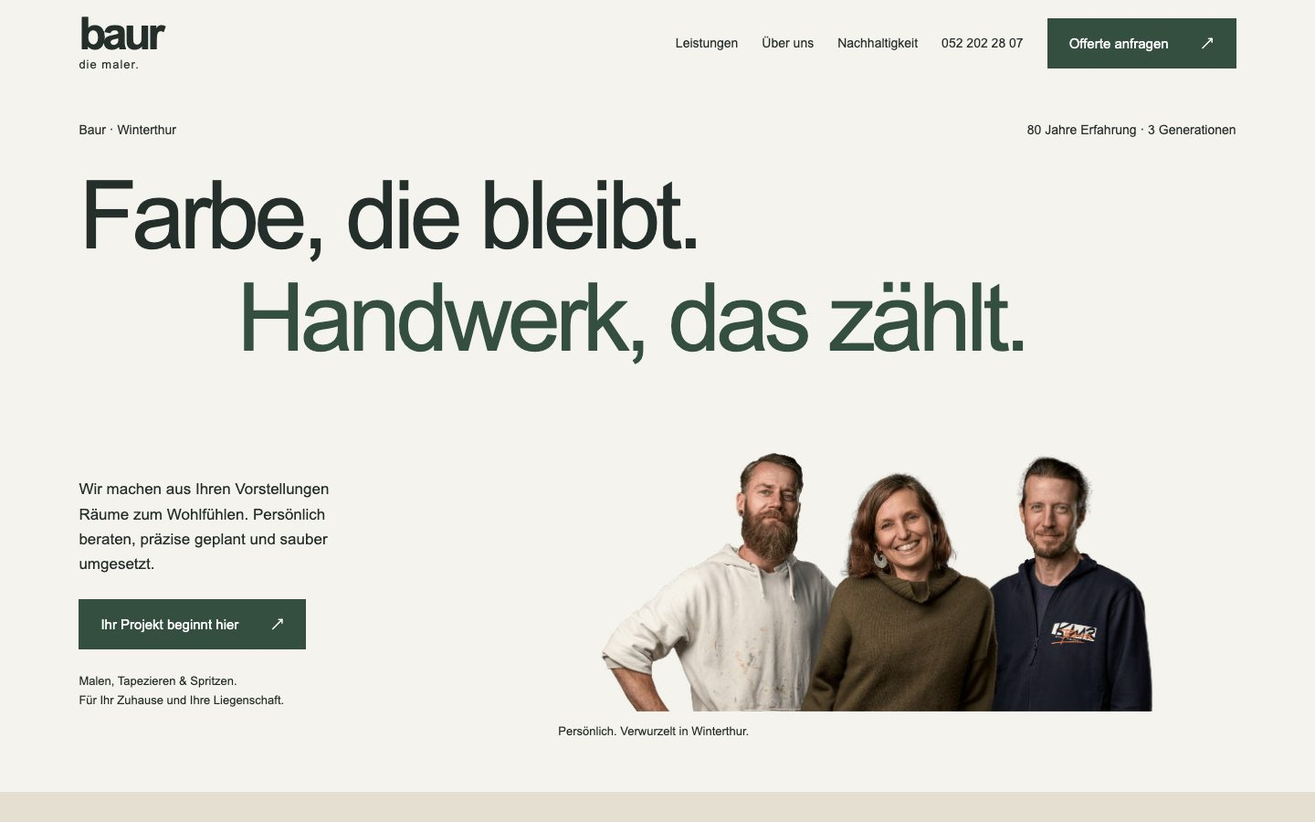
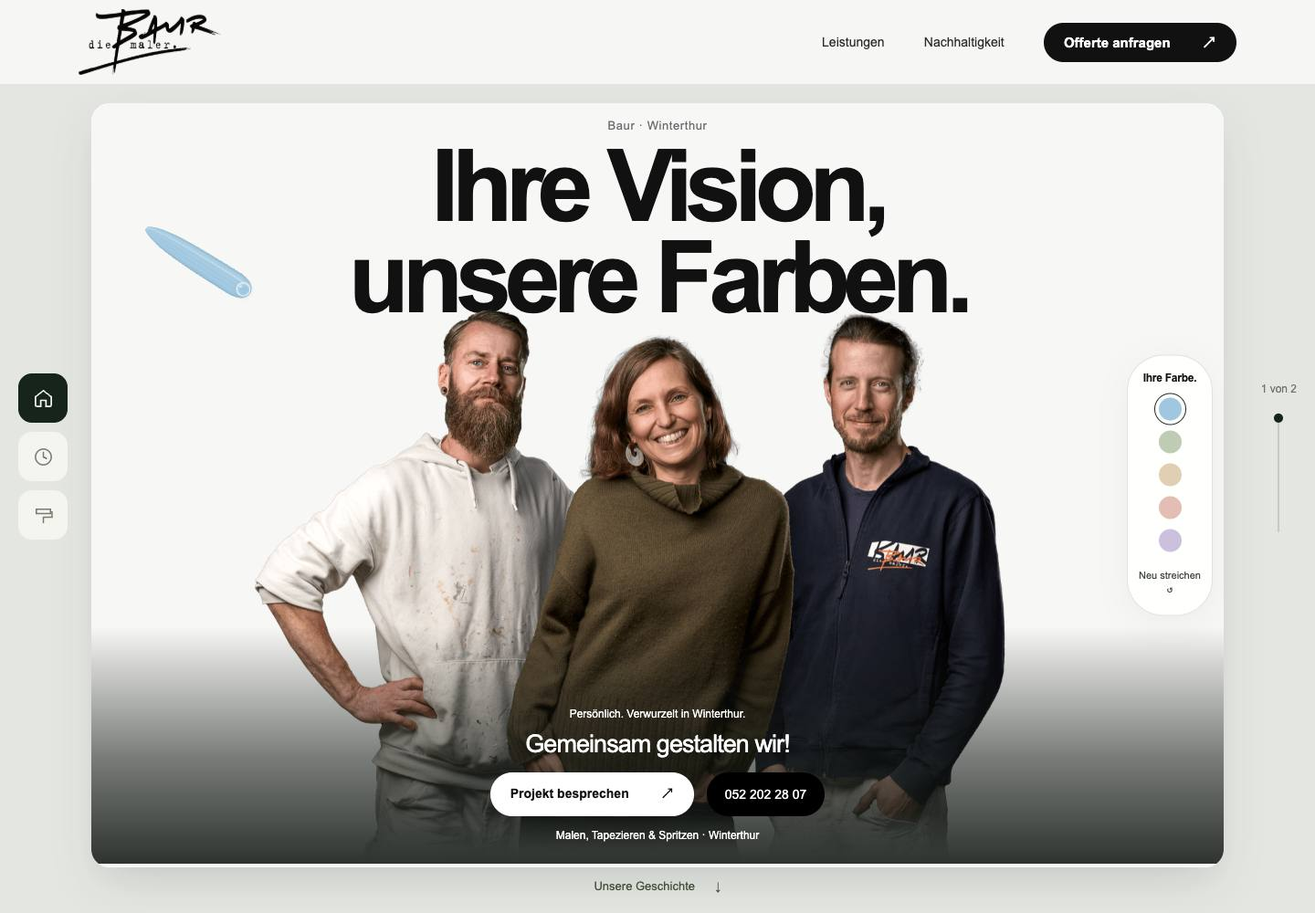
Add scroll-driven stacked hero and history cards based on supplied video

diff --git a/index.html b/index.html
@@ -1,4 +1,4 @@
-<!doctype html><html lang="de-CH"><head><meta charset="utf-8"><meta name="viewport" content="width=device-width,initial-scale=1"><title>Maler Winterthur | 3 Generationen Handwerk – Baur</title><meta name="description" content="Malen, Tapezieren und Spritzen in Winterthur. Über 80 Jahre Erfahrung, persönliche Beratung und eigene Umwelttechnik. Jetzt unverbindlich anfragen."><meta name="theme-color" content="#f5f5f3"><link rel="canonical" href="https://www.baur-maler.ch/"><meta property="og:title" content="Maler Winterthur | 3 Generationen Handwerk – Baur"><meta property="og:description" content="Malen, Tapezieren und Spritzen in Winterthur. Über 80 Jahre Erfahrung, persönliche Beratung und eigene Umwelttechnik. Jetzt unverbindlich anfragen."><meta property="og:type" content="website"><meta property="og:locale" content="de_CH"><meta property="og:url" content="https://www.baur-maler.ch/"><meta property="og:image" content="https://www.baur-maler.ch/assets/team.jpg"><link rel="icon" href="/assets/favicon.svg" type="image/svg+xml"><link rel="stylesheet" href="/style.css"><script type="application/ld+json">{"@context": "https://schema.org", "@type": ["LocalBusiness", "PaintingContractor"], "name": "Baur die Maler GmbH", "url": "https://www.baur-maler.ch", "telephone": "+41522022807", "email": "info@baur-maler.ch", "address": {"@type": "PostalAddress", "streetAddress": "Agnesstrasse 36", "postalCode": "8406", "addressLocality": "Winterthur", "addressCountry": "CH"}, "openingHours": ["Mo-Fr 07:00-11:45", "Mo-Fr 13:00-17:30"]}</script><script src="/app.js" defer></script><script src="/hero-paint.js" defer></script><script src="/heritage.js" defer></script><noscript><style>.heritage-portraits{opacity:1;transform:none}.heritage-progress span{transform:scaleX(1)}.heritage-controls{display:none}</style></noscript></head><body><a class="skip" href="#main">Zum Inhalt</a><header><a class="wordmark" href="/" aria-label="Baur, Startseite"><img src="/assets/baur-logo-schwarz.png" alt="Baur – die Maler" width="1167" height="537"></a><button class="menu-toggle" aria-expanded="false" aria-controls="navigation">Menü</button><nav id="navigation" aria-label="Hauptnavigation"><a href="/leistungen/">Leistungen</a><a href="/nachhaltigkeit/">Nachhaltigkeit</a><a class="button" href="/kontakt/">Offerte anfragen <span aria-hidden="true">↗</span></a></nav></header><main id="main"><section class="hero paint-hero"><canvas class="hero-paint-canvas" aria-hidden="true"></canvas><div class="paint-dot" aria-hidden="true"></div><aside class="paint-tools" aria-label="Malfarbe auswählen"><span class="paint-tools-title">Ihre Farbe.</span><div class="paint-colours" role="group" aria-label="Farben"><button type="button" class="paint-colour is-selected" data-paint-colour="#9fc7df" style="--colour:#9fc7df" aria-label="Himmelblau" aria-pressed="true"></button><button type="button" class="paint-colour" data-paint-colour="#bdccb3" style="--colour:#bdccb3" aria-label="Salbei" aria-pressed="false"></button><button type="button" class="paint-colour" data-paint-colour="#e1cfb3" style="--colour:#e1cfb3" aria-label="Sand" aria-pressed="false"></button><button type="button" class="paint-colour" data-paint-colour="#e4bdb5" style="--colour:#e4bdb5" aria-label="Rosé" aria-pressed="false"></button><button type="button" class="paint-colour" data-paint-colour="#ccc0df" style="--colour:#ccc0df" aria-label="Flieder" aria-pressed="false"></button></div><button type="button" class="paint-reset">Neu streichen ↺</button><p class="paint-hint">Farbe bewegen.<br>Spuren hinterlassen.</p><span class="paint-status" role="status" aria-live="polite"></span></aside><div class="hero-intro"><p>Baur · Winterthur</p></div><div class="hero-layout hero-stage"><h1>Ihre Vision,<br><span>unsere Farben.</span></h1><figure class="hero-team"><img src="/assets/original/start-01.png" alt="Das Baur-Team in Winterthur" width="1500" height="1234" fetchpriority="high"></figure><div class="hero-photo-shade" aria-hidden="true"></div><div class="hero-overlay"><p class="hero-photo-caption">Persönlich. Verwurzelt in Winterthur.</p><p class="hero-overlay-title">Gemeinsam gestalten wir!</p><div class="hero-actions"><a class="button" href="/kontakt/">Projekt besprechen <span aria-hidden="true">↗</span></a><a class="hero-phone" href="tel:+41522022807">052 202 28 07</a></div><p class="hero-overlay-note">Malen, Tapezieren &amp; Spritzen · Winterthur</p></div></div></section><section class="experience" aria-labelledby="experience-title"><div class="experience-top"><p>Weil unsere Kunden Qualität schätzen.</p><h2 id="experience-title">Von Hand zu Hand.</h2><p class="experience-intro">Wissen, das weiterlebt.<br>Handwerk, das bleibt.</p></div><div class="experience-stats"><div class="experience-stat"><span class="experience-number" aria-label="Über 80 Jahre Erfahrung"><span data-experience-count="80" aria-hidden="true">80</span><span class="experience-plus" aria-hidden="true">+</span></span><h3>Jahre Erfahrung.</h3><p>Seit 1937 in Winterthur verwurzelt.</p></div><div class="experience-stat"><span class="experience-number" aria-label="Drei Generationen"><span data-experience-count="3" aria-hidden="true">3</span><span class="experience-dot" aria-hidden="true"></span></span><h3>Generationen.</h3><p>Eine Familie. Ein gemeinsamer Anspruch.</p></div></div><div class="heritage"><div class="heritage-heading"><p>Die ganze Geschichte. Von 1937 bis heute.</p><div class="heritage-controls"><button type="button" class="heritage-prev" aria-label="Frühere Stationen" disabled>←</button><button type="button" class="heritage-next" aria-label="Spätere Stationen">→</button></div></div><div class="heritage-rail" tabindex="0" role="region" aria-label="Firmengeschichte von 1937 bis 2016, horizontal blättern"><div class="heritage-track"><div class="heritage-progress" aria-hidden="true"><span></span></div><article class="heritage-event" aria-labelledby="year-1937"><div class="heritage-portraits"><figure><img src="/assets/original/geschichte-01.jpg" alt="Ernst Baur sen." width="200" height="240" loading="lazy"><figcaption>Ernst Baur sen.</figcaption></figure></div><span class="heritage-point" aria-hidden="true"></span><h3 id="year-1937" class="heritage-year">1937</h3><h4>Der Anfang.</h4><p>Gründet Ernst Baur sen. den Malerbetrieb in Winterthur. Der eidg. dipl. Malermeister stellt kontinuierlich mehr Mitarbeiter ein und setzt auf ein starkes, gut ausgebildetes Team. Sein Erfolg bestätigt seinen Weg.</p></article><article class="heritage-event" aria-labelledby="year-1946"><div class="heritage-portraits"></div><span class="heritage-point" aria-hidden="true"></span><h3 id="year-1946" class="heritage-year">1946</h3><h4>Ein Zuhause fürs Handwerk.</h4><p>Die Familie Baur erweitert ihren Betrieb und übernimmt die Liegenschaft an der Agnesstrasse 36 in Winterthur. Um dem wachsenden Platzbedarf gerecht zu werden, errichten sie dort eine neue, moderne Werkstatt.</p></article><article class="heritage-event" aria-labelledby="year-1973"><div class="heritage-portraits"><figure><img src="/assets/original/geschichte-02.jpg" alt="Ernst Baur jun." width="200" height="240" loading="lazy"><figcaption>Ernst Baur jun.</figcaption></figure></div><span class="heritage-point" aria-hidden="true"></span><h3 id="year-1973" class="heritage-year">1973</h3><h4>Die nächste Generation.</h4><p>Die nächste Generation. Nach intensiven Lehrjahren tritt Ernst Baur jun. 1972 in den Familienbetrieb ein und schließt 1973 erfolgreich die Prüfung zum eidg. dipl. Malermeister ab.</p></article><article class="heritage-event" aria-labelledby="year-1976"><div class="heritage-portraits"><figure><img src="/assets/original/geschichte-03.jpg" alt="Therese Baur" width="200" height="240" loading="lazy"><figcaption>Therese Baur</figcaption></figure></div><span class="heritage-point" aria-hidden="true"></span><h3 id="year-1976" class="heritage-year">1976</h3><h4>Gemeinsam weiterführen.</h4><p>Generationenwechsel. Ernst Baur jun. übernimmt gemeinsam mit seiner Frau Therese den Betrieb. Getreu der Tradition legt er großen Wert auf die Weiterbildung der Mitarbeiter. Zudem engagiert er sich regelmäßig im Malermeisterverband als Prüfungsexperte für Lehrlinge und als Prüfungs-Obmann.</p></article><article class="heritage-event" aria-labelledby="year-1986"><div class="heritage-portraits"></div><span class="heritage-point" aria-hidden="true"></span><h3 id="year-1986" class="heritage-year">1986</h3><h4>Der Zeit voraus.</h4><p>Die Nase vorn. Die neue Werkstatt, das eigene Spritzwerk und eine Wärmerückgewinnungsanlage werden in Betrieb genommen. Baur die Maler erfüllt nicht nur alle ökologischen Auflagen, sondern setzt als erster Malerbetrieb in Winterthur mit neuen Spalt- und Destillieranlagen ein freiwilliges Zeichen für aktiven Umweltschutz.</p></article><article class="heritage-event" aria-labelledby="year-1997"><div class="heritage-portraits"><figure><img src="/assets/original/geschichte-04.jpg" alt="Mathias Baur" width="200" height="240" loading="lazy"><figcaption>Mathias Baur</figcaption></figure></div><span class="heritage-point" aria-hidden="true"></span><h3 id="year-1997" class="heritage-year">1997</h3><h4>Die Familientradition lebt.</h4><p>Nachwuchsfragen stellen sich nicht. Andi (1997) und Mathias (1999) Baur beginnen ihre Malerlehren und führen die Familientradition fort.</p></article><article class="heritage-event" aria-labelledby="year-2004"><div class="heritage-portraits"></div><span class="heritage-point" aria-hidden="true"></span><h3 id="year-2004" class="heritage-year">2004</h3><h4>Der erste Streich.</h4><p>Der erste Streich. Mathias Baur tritt in den Betrieb ein und unterstützt das Team als Spezialist für Spritzarbeiten und dekorative Techniken.</p></article><article class="heritage-event" aria-labelledby="year-2007"><div class="heritage-portraits"><figure><img src="/assets/original/geschichte-05.jpg" alt="Andi Baur" width="200" height="240" loading="lazy"><figcaption>Andi Baur</figcaption></figure></div><span class="heritage-point" aria-hidden="true"></span><h3 id="year-2007" class="heritage-year">2007</h3><h4>Ein Meister mehr.</h4><p>Andi Baur verstärkt das Team von Baur die Maler nach erfolgreichem Abschluss seiner Meisterprüfung.</p></article><article class="heritage-event" aria-labelledby="year-2012"><div class="heritage-portraits"><figure><img src="/assets/original/geschichte-04.jpg" alt="Mathias Baur" width="200" height="240" loading="lazy"><figcaption>Mathias Baur</figcaption></figure></div><span class="heritage-point" aria-hidden="true"></span><h3 id="year-2012" class="heritage-year">2012</h3><h4>Der dritte im Bunde.</h4><p>Im Sommer schließt auch Mathias Baur die Meisterschule ab und wird damit der dritte im Bunde. Beide Söhne unterstützen zunehmend ihren Vater in der Geschäftsleitung von Baur die Maler.</p></article><article class="heritage-event" aria-labelledby="year-2014"><div class="heritage-portraits"><figure><img src="/assets/original/geschichte-06.jpg" alt="Britta Baur" width="200" height="240" loading="lazy"><figcaption>Britta Baur</figcaption></figure></div><span class="heritage-point" aria-hidden="true"></span><h3 id="year-2014" class="heritage-year">2014</h3><h4>Verantwortung übernehmen.</h4><p>2014 markiert einen Wendepunkt: Mathias und Britta Baur übernehmen die Geschäftsführung. Ernst und Therese Baur treten etwas in den Hintergrund, stehen jedoch weiterhin stets mit Rat und Tat zur Seite.</p></article><article class="heritage-event" aria-labelledby="year-2016"><div class="heritage-portraits"></div><span class="heritage-point" aria-hidden="true"></span><h3 id="year-2016" class="heritage-year">2016</h3><h4>Ein neues Kapitel.</h4><p>Eine wesentliche Veränderung. Im 80. Jahr seit der Gründung übernehmen Mathias und Britta Baur das Geschäft vollständig und wandeln es am 1. Juli 2016 in die Baur die Maler GmbH um.</p></article></div></div><p class="heritage-hint">1937 <span>Mit den Pfeilen blättern oder seitlich wischen</span> 2016</p></div></section>
+<!doctype html><html lang="de-CH"><head><meta charset="utf-8"><meta name="viewport" content="width=device-width,initial-scale=1"><title>Maler Winterthur | 3 Generationen Handwerk – Baur</title><meta name="description" content="Malen, Tapezieren und Spritzen in Winterthur. Über 80 Jahre Erfahrung, persönliche Beratung und eigene Umwelttechnik. Jetzt unverbindlich anfragen."><meta name="theme-color" content="#f5f5f3"><link rel="canonical" href="https://www.baur-maler.ch/"><meta property="og:title" content="Maler Winterthur | 3 Generationen Handwerk – Baur"><meta property="og:description" content="Malen, Tapezieren und Spritzen in Winterthur. Über 80 Jahre Erfahrung, persönliche Beratung und eigene Umwelttechnik. Jetzt unverbindlich anfragen."><meta property="og:type" content="website"><meta property="og:locale" content="de_CH"><meta property="og:url" content="https://www.baur-maler.ch/"><meta property="og:image" content="https://www.baur-maler.ch/assets/team.jpg"><link rel="icon" href="/assets/favicon.svg" type="image/svg+xml"><link rel="stylesheet" href="/style.css"><script type="application/ld+json">{"@context": "https://schema.org", "@type": ["LocalBusiness", "PaintingContractor"], "name": "Baur die Maler GmbH", "url": "https://www.baur-maler.ch", "telephone": "+41522022807", "email": "info@baur-maler.ch", "address": {"@type": "PostalAddress", "streetAddress": "Agnesstrasse 36", "postalCode": "8406", "addressLocality": "Winterthur", "addressCountry": "CH"}, "openingHours": ["Mo-Fr 07:00-11:45", "Mo-Fr 13:00-17:30"]}</script><script src="/app.js" defer></script><script src="/hero-paint.js" defer></script><script src="/heritage.js" defer></script><script src="/chapters.js" defer></script><noscript><style>.heritage-portraits{opacity:1;transform:none}.heritage-progress span{transform:scaleX(1)}.heritage-controls{display:none}</style></noscript></head><body><a class="skip" href="#main">Zum Inhalt</a><header><a class="wordmark" href="/" aria-label="Baur, Startseite"><img src="/assets/baur-logo-schwarz.png" alt="Baur – die Maler" width="1167" height="537"></a><button class="menu-toggle" aria-expanded="false" aria-controls="navigation">Menü</button><nav id="navigation" aria-label="Hauptnavigation"><a href="/leistungen/">Leistungen</a><a href="/nachhaltigkeit/">Nachhaltigkeit</a><a class="button" href="/kontakt/">Offerte anfragen <span aria-hidden="true">↗</span></a></nav></header><main id="main"><div class="chapter-deck" id="ansichten"><div class="chapter-stage"><div class="chapter-card chapter-hero" data-chapter="0" aria-label="Erste Ansicht: Ihre Vision, unsere Farben"><section class="hero paint-hero"><canvas class="hero-paint-canvas" aria-hidden="true"></canvas><div class="paint-dot" aria-hidden="true"></div><aside class="paint-tools" aria-label="Malfarbe auswählen"><span class="paint-tools-title">Ihre Farbe.</span><div class="paint-colours" role="group" aria-label="Farben"><button type="button" class="paint-colour is-selected" data-paint-colour="#9fc7df" style="--colour:#9fc7df" aria-label="Himmelblau" aria-pressed="true"></button><button type="button" class="paint-colour" data-paint-colour="#bdccb3" style="--colour:#bdccb3" aria-label="Salbei" aria-pressed="false"></button><button type="button" class="paint-colour" data-paint-colour="#e1cfb3" style="--colour:#e1cfb3" aria-label="Sand" aria-pressed="false"></button><button type="button" class="paint-colour" data-paint-colour="#e4bdb5" style="--colour:#e4bdb5" aria-label="Rosé" aria-pressed="false"></button><button type="button" class="paint-colour" data-paint-colour="#ccc0df" style="--colour:#ccc0df" aria-label="Flieder" aria-pressed="false"></button></div><button type="button" class="paint-reset">Neu streichen ↺</button><p class="paint-hint">Farbe bewegen.<br>Spuren hinterlassen.</p><span class="paint-status" role="status" aria-live="polite"></span></aside><div class="hero-intro"><p>Baur · Winterthur</p></div><div class="hero-layout hero-stage"><h1>Ihre Vision,<br><span>unsere Farben.</span></h1><figure class="hero-team"><img src="/assets/original/start-01.png" alt="Das Baur-Team in Winterthur" width="1500" height="1234" fetchpriority="high"></figure><div class="hero-photo-shade" aria-hidden="true"></div><div class="hero-overlay"><p class="hero-photo-caption">Persönlich. Verwurzelt in Winterthur.</p><p class="hero-overlay-title">Gemeinsam gestalten wir!</p><div class="hero-actions"><a class="button" href="/kontakt/">Projekt besprechen <span aria-hidden="true">↗</span></a><a class="hero-phone" href="tel:+41522022807">052 202 28 07</a></div><p class="hero-overlay-note">Malen, Tapezieren &amp; Spritzen · Winterthur</p></div></div></section></div><div class="chapter-card chapter-history" data-chapter="1" aria-label="Zweite Ansicht: Geschichte und Timeline"><section class="experience" aria-labelledby="experience-title"><div class="experience-top"><p>Weil unsere Kunden Qualität schätzen.</p><h2 id="experience-title">Von Hand zu Hand.</h2><p class="experience-intro">Wissen, das weiterlebt.<br>Handwerk, das bleibt.</p></div><div class="experience-stats"><div class="experience-stat"><span class="experience-number" aria-label="Über 80 Jahre Erfahrung"><span data-experience-count="80" aria-hidden="true">80</span><span class="experience-plus" aria-hidden="true">+</span></span><h3>Jahre Erfahrung.</h3><p>Seit 1937 in Winterthur verwurzelt.</p></div><div class="experience-stat"><span class="experience-number" aria-label="Drei Generationen"><span data-experience-count="3" aria-hidden="true">3</span><span class="experience-dot" aria-hidden="true"></span></span><h3>Generationen.</h3><p>Eine Familie. Ein gemeinsamer Anspruch.</p></div></div><div class="heritage"><div class="heritage-heading"><p>Die ganze Geschichte. Von 1937 bis heute.</p><div class="heritage-controls"><button type="button" class="heritage-prev" aria-label="Frühere Stationen" disabled>←</button><button type="button" class="heritage-next" aria-label="Spätere Stationen">→</button></div></div><div class="heritage-rail" tabindex="0" role="region" aria-label="Firmengeschichte von 1937 bis 2016, horizontal blättern"><div class="heritage-track"><div class="heritage-progress" aria-hidden="true"><span></span></div><article class="heritage-event" aria-labelledby="year-1937"><div class="heritage-portraits"><figure><img src="/assets/original/geschichte-01.jpg" alt="Ernst Baur sen." width="200" height="240" loading="lazy"><figcaption>Ernst Baur sen.</figcaption></figure></div><span class="heritage-point" aria-hidden="true"></span><h3 id="year-1937" class="heritage-year">1937</h3><h4>Der Anfang.</h4><p>Gründet Ernst Baur sen. den Malerbetrieb in Winterthur. Der eidg. dipl. Malermeister stellt kontinuierlich mehr Mitarbeiter ein und setzt auf ein starkes, gut ausgebildetes Team. Sein Erfolg bestätigt seinen Weg.</p></article><article class="heritage-event" aria-labelledby="year-1946"><div class="heritage-portraits"></div><span class="heritage-point" aria-hidden="true"></span><h3 id="year-1946" class="heritage-year">1946</h3><h4>Ein Zuhause fürs Handwerk.</h4><p>Die Familie Baur erweitert ihren Betrieb und übernimmt die Liegenschaft an der Agnesstrasse 36 in Winterthur. Um dem wachsenden Platzbedarf gerecht zu werden, errichten sie dort eine neue, moderne Werkstatt.</p></article><article class="heritage-event" aria-labelledby="year-1973"><div class="heritage-portraits"><figure><img src="/assets/original/geschichte-02.jpg" alt="Ernst Baur jun." width="200" height="240" loading="lazy"><figcaption>Ernst Baur jun.</figcaption></figure></div><span class="heritage-point" aria-hidden="true"></span><h3 id="year-1973" class="heritage-year">1973</h3><h4>Die nächste Generation.</h4><p>Die nächste Generation. Nach intensiven Lehrjahren tritt Ernst Baur jun. 1972 in den Familienbetrieb ein und schließt 1973 erfolgreich die Prüfung zum eidg. dipl. Malermeister ab.</p></article><article class="heritage-event" aria-labelledby="year-1976"><div class="heritage-portraits"><figure><img src="/assets/original/geschichte-03.jpg" alt="Therese Baur" width="200" height="240" loading="lazy"><figcaption>Therese Baur</figcaption></figure></div><span class="heritage-point" aria-hidden="true"></span><h3 id="year-1976" class="heritage-year">1976</h3><h4>Gemeinsam weiterführen.</h4><p>Generationenwechsel. Ernst Baur jun. übernimmt gemeinsam mit seiner Frau Therese den Betrieb. Getreu der Tradition legt er großen Wert auf die Weiterbildung der Mitarbeiter. Zudem engagiert er sich regelmäßig im Malermeisterverband als Prüfungsexperte für Lehrlinge und als Prüfungs-Obmann.</p></article><article class="heritage-event" aria-labelledby="year-1986"><div class="heritage-portraits"></div><span class="heritage-point" aria-hidden="true"></span><h3 id="year-1986" class="heritage-year">1986</h3><h4>Der Zeit voraus.</h4><p>Die Nase vorn. Die neue Werkstatt, das eigene Spritzwerk und eine Wärmerückgewinnungsanlage werden in Betrieb genommen. Baur die Maler erfüllt nicht nur alle ökologischen Auflagen, sondern setzt als erster Malerbetrieb in Winterthur mit neuen Spalt- und Destillieranlagen ein freiwilliges Zeichen für aktiven Umweltschutz.</p></article><article class="heritage-event" aria-labelledby="year-1997"><div class="heritage-portraits"><figure><img src="/assets/original/geschichte-04.jpg" alt="Mathias Baur" width="200" height="240" loading="lazy"><figcaption>Mathias Baur</figcaption></figure></div><span class="heritage-point" aria-hidden="true"></span><h3 id="year-1997" class="heritage-year">1997</h3><h4>Die Familientradition lebt.</h4><p>Nachwuchsfragen stellen sich nicht. Andi (1997) und Mathias (1999) Baur beginnen ihre Malerlehren und führen die Familientradition fort.</p></article><article class="heritage-event" aria-labelledby="year-2004"><div class="heritage-portraits"></div><span class="heritage-point" aria-hidden="true"></span><h3 id="year-2004" class="heritage-year">2004</h3><h4>Der erste Streich.</h4><p>Der erste Streich. Mathias Baur tritt in den Betrieb ein und unterstützt das Team als Spezialist für Spritzarbeiten und dekorative Techniken.</p></article><article class="heritage-event" aria-labelledby="year-2007"><div class="heritage-portraits"><figure><img src="/assets/original/geschichte-05.jpg" alt="Andi Baur" width="200" height="240" loading="lazy"><figcaption>Andi Baur</figcaption></figure></div><span class="heritage-point" aria-hidden="true"></span><h3 id="year-2007" class="heritage-year">2007</h3><h4>Ein Meister mehr.</h4><p>Andi Baur verstärkt das Team von Baur die Maler nach erfolgreichem Abschluss seiner Meisterprüfung.</p></article><article class="heritage-event" aria-labelledby="year-2012"><div class="heritage-portraits"><figure><img src="/assets/original/geschichte-04.jpg" alt="Mathias Baur" width="200" height="240" loading="lazy"><figcaption>Mathias Baur</figcaption></figure></div><span class="heritage-point" aria-hidden="true"></span><h3 id="year-2012" class="heritage-year">2012</h3><h4>Der dritte im Bunde.</h4><p>Im Sommer schließt auch Mathias Baur die Meisterschule ab und wird damit der dritte im Bunde. Beide Söhne unterstützen zunehmend ihren Vater in der Geschäftsleitung von Baur die Maler.</p></article><article class="heritage-event" aria-labelledby="year-2014"><div class="heritage-portraits"><figure><img src="/assets/original/geschichte-06.jpg" alt="Britta Baur" width="200" height="240" loading="lazy"><figcaption>Britta Baur</figcaption></figure></div><span class="heritage-point" aria-hidden="true"></span><h3 id="year-2014" class="heritage-year">2014</h3><h4>Verantwortung übernehmen.</h4><p>2014 markiert einen Wendepunkt: Mathias und Britta Baur übernehmen die Geschäftsführung. Ernst und Therese Baur treten etwas in den Hintergrund, stehen jedoch weiterhin stets mit Rat und Tat zur Seite.</p></article><article class="heritage-event" aria-labelledby="year-2016"><div class="heritage-portraits"></div><span class="heritage-point" aria-hidden="true"></span><h3 id="year-2016" class="heritage-year">2016</h3><h4>Ein neues Kapitel.</h4><p>Eine wesentliche Veränderung. Im 80. Jahr seit der Gründung übernehmen Mathias und Britta Baur das Geschäft vollständig und wandeln es am 1. Juli 2016 in die Baur die Maler GmbH um.</p></article></div></div><p class="heritage-hint">1937 <span>Mit den Pfeilen blättern oder seitlich wischen</span> 2016</p></div></section></div><button type="button" class="chapter-next">Unsere Geschichte <span aria-hidden="true">↓</span></button></div></div><nav class="chapter-nav" aria-label="Ansichten der Startseite"><button type="button" data-chapter-go="0" aria-label="Start" aria-pressed="true"><svg viewBox="0 0 24 24" aria-hidden="true" fill="none" stroke="currentColor" stroke-width="1.6"><path d="m3 10 9-7 9 7v10a1 1 0 0 1-1 1h-5v-7H9v7H4a1 1 0 0 1-1-1z"/></svg><span>Start</span></button><button type="button" data-chapter-go="1" aria-label="Geschichte" aria-pressed="false"><svg viewBox="0 0 24 24" aria-hidden="true" fill="none" stroke="currentColor" stroke-width="1.6"><circle cx="12" cy="12" r="9"/><path d="M12 6v6l4 2"/></svg><span>Geschichte</span></button><a href="#leistungen" aria-label="Zu den Leistungen"><svg viewBox="0 0 24 24" aria-hidden="true" fill="none" stroke="currentColor" stroke-width="1.6"><path d="M4 5h16v5H4zM20 8h2v6H12v7"/></svg><span>Leistungen</span></a></nav><div class="chapter-meter" aria-hidden="true"><span>1 von 2</span><i><b></b></i></div>
 <section class="schema-section" id="leistungen"><div class="schema-heading"><p class="section-label">Unsere Leistungen</p><h2>Malen, Tapezieren &amp; Spritzen</h2><p><a href="/leistungen/">Alle Leistungen entdecken ↗</a></p></div>
 <div class="feature-grid">
 <a class="feature-card feature-paint" href="/malen-gipsen/"><img class="feature-photo" src="/assets/original/leistungen-02.png" alt="Innenarbeiten von Baur" loading="lazy"><div class="feature-copy"><h3>Malen & Gipsen <span>↗</span></h3><p>Neue Farbe, saubere Untergründe und ein frisches Raumgefühl.</p></div></a>

diff --git a/style.css b/style.css
@@ -272,3 +272,56 @@ footer{background:#111;color:#f7f7f5}footer .legal,footer .footer-top p{color:#c
 .paint-hero.is-painting .paint-dot{opacity:1;visibility:visible}
 @media(hover:none),(pointer:coarse){.paint-dot{display:none}}
 @media(prefers-reduced-motion:reduce){.paint-dot,.paint-dot:before{transition:none}}
+/* Two native-scroll cards inspired by the supplied stacked-card recording. */
+.chapter-nav,.chapter-meter,.chapter-next{display:none}
+.chapter-card{min-width:0}
+@media(min-width:1000px) and (min-height:620px) and (prefers-reduced-motion:no-preference){
+ body.chapter-live{background:#e4e7e1}
+ .chapter-live header{background:rgba(247,247,245,.97)}
+ .chapter-live .chapter-deck{height:calc(205svh - 95px);position:relative;padding:0 100px 0}
+ .chapter-live .chapter-stage{position:sticky;top:var(--chapter-top,112px);height:calc(100svh - var(--chapter-top,112px) - 50px);max-width:1320px;margin:0 auto;perspective:1600px;isolation:isolate}
+ .chapter-live .chapter-card{position:absolute;inset:0;border-radius:20px;overflow:hidden;box-shadow:0 18px 42px #17241c16;transform-origin:center top;will-change:transform}
+ .chapter-live .chapter-hero{z-index:2;background:#f7f7f5}
+ .chapter-live .chapter-history{z-index:1;background:#151c18}
+ .chapter-live .chapter-card>section{height:100%;max-height:100%;overflow-y:auto;overscroll-behavior-y:auto;scrollbar-width:thin;scrollbar-color:#8c9c82 transparent}
+ .chapter-live .chapter-card[aria-hidden="true"]{pointer-events:none}
+ .chapter-live .chapter-nav{position:fixed;top:50%;left:20px;z-index:20;transform:translateY(-50%);display:flex;flex-direction:column;gap:10px;opacity:0;visibility:hidden;transition:opacity .25s}
+ .chapter-live.chapter-engaged .chapter-nav,.chapter-live.chapter-engaged .chapter-meter{opacity:1;visibility:visible}
+ .chapter-nav button,.chapter-nav>a{display:flex;align-items:center;justify-content:center;position:relative;width:54px;height:54px;border:0;border-radius:15px;background:#f4f5ef;color:#747b70;cursor:pointer;text-decoration:none;transition:background .2s,color .2s,transform .2s}
+ .chapter-nav button[aria-pressed="true"]{background:#17241c;color:#f4f5ef}
+ .chapter-nav svg{width:23px;height:23px}.chapter-nav button:hover,.chapter-nav>a:hover{background:#d0d9c9;transform:translateX(3px)}
+ .chapter-nav span{position:absolute;left:63px;background:#17241c;color:white;padding:5px 11px;border-radius:6px;font-size:13px;opacity:0;pointer-events:none;white-space:nowrap;transition:opacity .2s}
+ .chapter-nav button:hover span,.chapter-nav button:focus-visible span,.chapter-nav>a:hover span,.chapter-nav>a:focus-visible span{opacity:1}
+ .chapter-live .chapter-meter{position:fixed;right:20px;top:50%;z-index:15;display:flex;flex-direction:column;align-items:center;gap:17px;transform:translateY(-50%);color:#697565;opacity:0;visibility:hidden;transition:opacity .25s;font-size:12px}
+ .chapter-meter i{position:relative;width:2px;height:130px;background:#c3cdbd}.chapter-meter b{position:absolute;top:0;left:-4px;display:block;width:10px;height:10px;border-radius:50%;background:#17241c}
+ .chapter-live .chapter-next{display:flex;position:absolute;bottom:-38px;left:50%;transform:translateX(-50%);gap:22px;align-items:center;border:0;background:none;color:#45523e;cursor:pointer;font-size:13px;padding:6px 15px;white-space:nowrap}
+ /* Fit the existing hero composition to the first card, keeping all actions visible. */
+ .chapter-live .paint-hero{padding:16px 24px 0;overflow:hidden}
+ .chapter-live .paint-hero .hero-intro{margin:0 auto 8px;font-size:12px;line-height:1.4}
+ .chapter-live .paint-hero .hero-layout.hero-stage{height:calc(100% - 30px);min-height:0;max-height:none}
+ .chapter-live .paint-hero .hero-stage h1{top:0;padding-top:0;font-size:clamp(60px,7.6vw,112px);line-height:.91;max-width:100%;letter-spacing:-.07em}
+ .chapter-live .paint-hero .hero-stage .hero-team{width:min(85%,calc((100svh - 180px)*1.38));bottom:0}
+ .chapter-live .hero-overlay{bottom:22px}.chapter-live .hero-photo-caption{font-size:12px}
+ .chapter-live .hero-overlay-title{font-size:27px}
+ .chapter-live .paint-hero .hero-overlay .hero-actions{margin:14px auto 12px}
+ .chapter-live .paint-hero .hero-overlay .button{padding:13px 21px;font-size:14px}
+ .chapter-live .paint-hero .hero-overlay .hero-phone{padding:13px 20px;font-size:14px}
+ .chapter-live .hero-overlay-note{font-size:12px}.chapter-live .hero-photo-shade{height:260px}
+ .chapter-live .paint-tools{right:12px;padding:15px 9px;gap:12px;max-width:94px}
+ .chapter-live .paint-colours{gap:11px}.chapter-live .paint-colour{width:25px;height:25px}.chapter-live .paint-hint{display:none}
+ /* History remains vertically readable within its card; its timeline scrolls horizontally. */
+ .chapter-live .experience{padding:35px 42px 30px}
+ .chapter-live .experience-top{gap:11px}.chapter-live .experience-top h2{font-size:clamp(35px,4vw,56px)}
+ .chapter-live .experience-intro{font-size:15px;line-height:1.45}
+ .chapter-live .experience-stats{margin:25px auto 35px;gap:35px;max-width:850px}
+ .chapter-live .experience-number{font-size:clamp(90px,11vw,155px)}
+ .chapter-live .experience-stat h3{font-size:25px;margin-top:12px}.chapter-live .experience-stat>p{font-size:13px}
+ .chapter-live .heritage-heading{margin-bottom:23px}
+ .chapter-live .heritage-event{width:315px;padding-right:28px}.chapter-live .heritage-event:last-child{width:287px}
+ .chapter-live .heritage-portraits{height:215px}.chapter-live .heritage-portraits figure{max-width:155px}
+ .chapter-live .heritage-progress{top:224px}.chapter-live .heritage-year{font-size:26px}
+ .chapter-live .heritage-event h4{font-size:21px}.chapter-live .heritage-event>p{font-size:15px}
+ .chapter-live main>.schema-section{max-width:1440px}
+}
+/* Mobile, reduced motion and no script retain normal document flow and complete content. */
+@media(max-width:999px),(max-height:619px),(prefers-reduced-motion:reduce){.chapter-card{position:relative;transform:none!important;opacity:1!important}.chapter-stage{height:auto}.chapter-deck{height:auto}.chapter-card>section{max-height:none}}

diff --git a/chapters.js b/chapters.js
@@ -1,0 +1,59 @@
+(() => {
+ const deck=document.querySelector('.chapter-deck');if(!deck)return;
+ const stage=deck.querySelector('.chapter-stage'),cards=[...deck.querySelectorAll('[data-chapter]')];
+ const buttons=[...document.querySelectorAll('[data-chapter-go]')],next=deck.querySelector('.chapter-next');
+ const meter=document.querySelector('.chapter-meter'),header=document.querySelector('header');
+ const desktop=matchMedia('(min-width: 1000px) and (min-height: 620px) and (prefers-reduced-motion: no-preference)');
+ let start=0,range=1,frame=0,index=0,lastActivated=-1,pendingFocus=null;
+ const clamp=x=>Math.max(0,Math.min(1,x));
+ const metrics=()=>{
+  if(!desktop.matches)return;
+  const top=header.getBoundingClientRect().height+20;
+  document.documentElement.style.setProperty('--chapter-top',`${top}px`);
+  const origin=deck.getBoundingClientRect().top+scrollY;
+  start=Math.max(0,origin-top);range=Math.max(1,origin+deck.offsetHeight-stage.offsetHeight-top-start);
+ };
+ const activate=n=>{
+  if(n===lastActivated)return;lastActivated=n;
+  if(n===1)cards[1].querySelector('.experience').dispatchEvent(new Event('chapteractivate'));
+ };
+ const update=()=>{
+  frame=0;if(!desktop.matches)return;
+  const p=clamp((scrollY-start)/range),t=p*p*(3-2*p);
+  cards[0].style.transform=`translate3d(0,${-t*122}%,0) rotateX(${t*17}deg) scale(${1-t*.05})`;
+  cards[0].style.opacity=String(1-clamp((p-.82)/.18));
+  cards[1].style.transform=`translate3d(0,${(1-t)*22}px,0) scale(${.955+t*.045})`;
+  const visible=p<.025?0:p>.975?1:-1;
+  cards.forEach((card,i)=>{card.inert=i!==visible;card.setAttribute('aria-hidden',String(i!==visible));});
+  index=p<.5?0:1;
+  buttons.forEach(b=>b.setAttribute('aria-pressed',String(Number(b.dataset.chapterGo)===index)));
+  meter.querySelector('span').textContent=`${index+1} von 2`;meter.querySelector('b').style.transform=`translateY(${p*120}px)`;
+  next.firstChild.textContent=index===0?'Unsere Geschichte ':'Leistungen entdecken ';
+  const r=deck.getBoundingClientRect();document.body.classList.toggle('chapter-engaged',r.bottom>header.offsetHeight+100&&r.top<innerHeight-120);
+  if(visible>=0){
+   activate(visible);
+   if(pendingFocus===visible){const content=cards[visible].querySelector('section');content.setAttribute('tabindex','-1');content.focus({preventScroll:true});pendingFocus=null;}
+  }
+ };
+ const queue=()=>{if(!frame)frame=requestAnimationFrame(update);};
+ const go=n=>{
+  if(!desktop.matches){cards[n].scrollIntoView({behavior:'auto',block:'start'});return;}
+  pendingFocus=n;cards[n].querySelector('section').scrollTop=0;metrics();window.scrollTo({top:start+range*n,behavior:'smooth'});queue();
+ };
+ buttons.forEach(button=>button.addEventListener('click',()=>go(Number(button.dataset.chapterGo))));
+ next.addEventListener('click',()=>{
+  if(index===0)go(1);else document.querySelector('#leistungen').scrollIntoView({behavior:'smooth',block:'start'});
+ });
+ const configure=()=>{
+  document.body.classList.toggle('chapter-live',desktop.matches);
+  if(desktop.matches){metrics();update();}
+  else{
+   document.body.classList.remove('chapter-engaged');
+   cards.forEach(card=>{card.inert=false;card.removeAttribute('aria-hidden');card.style.transform='';card.style.opacity='';});
+   lastActivated=-1;pendingFocus=null;
+  }
+ };
+ window.addEventListener('scroll',queue,{passive:true});window.addEventListener('resize',()=>{metrics();queue();},{passive:true});
+ new ResizeObserver(()=>{metrics();queue();}).observe(header);
+ desktop.addEventListener('change',configure);configure();
+})();

diff --git a/heritage.js b/heritage.js
@@ -15,8 +15,12 @@
  previous.addEventListener('click',()=>move(-1));next.addEventListener('click',()=>move(1));
  rail.addEventListener('scroll',()=>{if(!queued){queued=true;requestAnimationFrame(update);}},{passive:true});
  if('IntersectionObserver' in window){
-  const observer=new IntersectionObserver(entries=>{entries.forEach(entry=>{if(entry.isIntersecting){entry.target.classList.add('is-revealed');started=true;update();observer.unobserve(entry.target);}});},{threshold:.12});
+  const observer=new IntersectionObserver(entries=>{entries.forEach(entry=>{if(entry.isIntersecting&&!section.closest('[inert]')){entry.target.classList.add('is-revealed');started=true;update();observer.unobserve(entry.target);}});},{threshold:.12});
   events.forEach(event=>observer.observe(event));
  }else{events.forEach(event=>event.classList.add('is-revealed'));started=true;}
+ section.closest('.experience')?.addEventListener('chapteractivate',()=>{
+  const bounds=rail.getBoundingClientRect();
+  events.forEach(event=>{const r=event.getBoundingClientRect();if(r.right>bounds.left&&r.left<bounds.right&&r.bottom>0&&r.top<innerHeight){event.classList.add('is-revealed');started=true;}});update();
+ });
  new ResizeObserver(update).observe(rail);update();
 })();

diff --git a/app.js b/app.js
@@ -72,7 +72,9 @@ const experience=document.querySelector('.experience');
 if(experience){
  const counters=[...experience.querySelectorAll('[data-experience-count]')];
  const reduced=matchMedia('(prefers-reduced-motion: reduce)');
+ let experienceStarted=false;
  const revealExperience=()=>{
+  if(experienceStarted)return;experienceStarted=true;
   experience.classList.add('is-visible');
   if(reduced.matches)return;
   let start;
@@ -86,7 +88,8 @@ if(experience){
   requestAnimationFrame(animate);
  };
  if('IntersectionObserver' in window){
-  const observer=new IntersectionObserver(entries=>{if(entries.some(entry=>entry.isIntersecting)){revealExperience();observer.disconnect();}},{threshold:.2});
+  const observer=new IntersectionObserver(entries=>{if(entries.some(entry=>entry.isIntersecting)&&!experience.closest('[inert]')){revealExperience();observer.disconnect();}},{threshold:.2});
   observer.observe(experience);
+  experience.addEventListener('chapteractivate',()=>{revealExperience();observer.disconnect();},{once:true});
  }else revealExperience();
 }

diff --git a/docs/KONZEPT.md b/docs/KONZEPT.md
@@ -101,3 +101,9 @@ Der Werkzeug-Cursor wurde durch einen kleinen Farbtropfen ersetzt. Die Hintergru
 ## Geschichte ausschliesslich auf der Startseite
 
 Auf Kundenwunsch wurde die eigenständige Geschichtsseite entfernt, einschliesslich ihrer identischen Kopie unter `/ueber-uns/`, des Menülinks und des zusätzlichen Verweises unter der Timeline. Die vollständige interaktive Chronik samt Bildern bleibt auf der Startseite erhalten. Beide entfernten Routen wurden aus Build, Seitenprüfung und Sitemap gestrichen.
+
+## Zwei gestapelte Ansichten nach Video-Referenz
+
+Die Startseite beginnt nun auf grossen Bildschirmen mit einer am Viewport gehaltenen Bühne und zwei Karten. Die erste Karte enthält den bestehenden Hero mit Teamfoto, Malfläche, Farbwahl und Aktionen. Beim nativen Scrollen hebt und kippt sie sich nach oben; die zweite Karte mit animierten Erfahrungszahlen und vollständiger Timeline wird sichtbar und vergrössert sich auf ihre Endposition. Seitensteuerung links und Fortschrittsanzeige rechts orientieren sich am Aufbau der gelieferten Aufnahme, mit Baur-Farben und Baur-Inhalten.
+
+Es entstehen keine neuen separaten HTML-Seiten: Beide Ansichten gehören weiterhin zur Startseite. Längere Geschichtsinhalte sind innerhalb der zweiten Karte vertikal scrollbar; die bestehende Timeline bleibt horizontal mit Pfeilen, Tastatur und Wischen bedienbar. Die Zahlanimation startet erst bei aktivierter zweiter Ansicht, die Porträts blenden bei Sichtbarkeit ein. Die übrigen Leistungen und Abschnitte folgen unterhalb der Bühne. Mobil, bei geringer Fensterhöhe, ohne JavaScript und mit reduzierter Bewegung werden die beiden Bereiche vollständig im normalen Dokumentfluss dargestellt. Das Mausrad wird nicht abgefangen; kein Scroll-Lock und keine zusätzlichen Bibliotheken oder CDN-Abhängigkeiten.

diff --git a/docs/QA.md b/docs/QA.md
@@ -58,3 +58,9 @@ Browserprüfung mit echten Mausereignissen in vier Richtungen: Pinselwinkel rech
 ## Flüssige Farbspur
 
 Mit echten Mausereignissen im Browser geprüft: Die langsame horizontale Spur war am Messpunkt 16 Pixel breit, die schnelle 70 Pixel. Der sichtbare Werkzeug-Pinsel ist aus dem DOM entfernt; der kleine Farbpunkt ist vorhanden. Farbauswahl, normale Zeigeranzeige ausserhalb des Heros und vollständiges Leeren beider Canvas-Ebenen funktionieren. Screenshot mit schmaler Linie, breitem Band und gekrümmter Farbspur visuell geprüft. Syntaxprüfung, Seitenprüfung und Build erfolgreich.
+
+## Kartenaufbau nach Video-Referenz (4. November 2026)
+
+Die 11,26 Sekunden lange Nutzeraufnahme wurde in zehn Einzelbildern ausgewertet. Die daraus abgeleiteten zwei Desktop-Karten wurden am Start, während des Übergangs, bei aktivierter Geschichte und nach dem Lesen der Timeline im Browser fotografiert und visuell geprüft.
+
+Browserprüfung: Malfläche in Karte 1 zeichnet weiterhin; die direkte Seitennavigation aktiviert Karte 2; inaktive Karten sind aus der Tastaturbedienung und dem Accessibility-Baum ausgeblendet. Die Zahlen enden korrekt bei 80 und 3. Die Timeline behält alle elf Stationen und bewegt sich mit dem Vorwärtspfeil um eine Station (315 Pixel). Kein horizontaler Seitenüberlauf am Desktop oder bei 390 Pixeln. Mobile Darstellung und reduzierte Bewegung: normale Dokumentreihenfolge, beide Karten vollständig zugänglich, keine ausgeblendeten Inhalte. Ein während der Prüfung entdeckter mobiler Überlauf durch die Vollbild-Dekoration wurde korrigiert.

diff --git a/README.md b/README.md
@@ -45,3 +45,7 @@ Die Texte und Bilder aller drei öffentlich verlinkten Originalseiten sind inzwi
 ## Interaktiver Hero
 
 `hero-paint.js` steuert eine ausschliesslich lokale Malfläche hinter dem Hero-Inhalt. Farbauswahl und Zurücksetzen sind per Tastatur erreichbar. Der kleine Farbtropfen erscheint nur im Hero und blendet über Links und Bedienelementen aus. Die transparente Teamaufnahme bleibt darüber sichtbar. Beim Grössenwechsel wird die Zeichnung erhalten; im Build wird das Skript mitgeliefert.
+
+## Zwei Ansichten als animierter Kartenstapel
+
+`chapters.js` ergänzt den Desktop-Auftritt um zwei gestapelte Ansichten auf der Startseite: den interaktiven Hero und die vollständige Geschichte mit Timeline. Vertikales Scrollen steuert den Kipp- und Hebeübergang; links stehen direkte Ansichtswechsel bereit. Die zweite Karte kann intern vertikal gelesen werden, während die Timeline ihre horizontale Bedienung behält. Die restlichen Inhalte folgen anschliessend im Dokument. Mobil, bei kleinen Fensterhöhen, ohne JavaScript und bei reduzierter Bewegung bleiben die Inhalte im normalen Seitenfluss.
